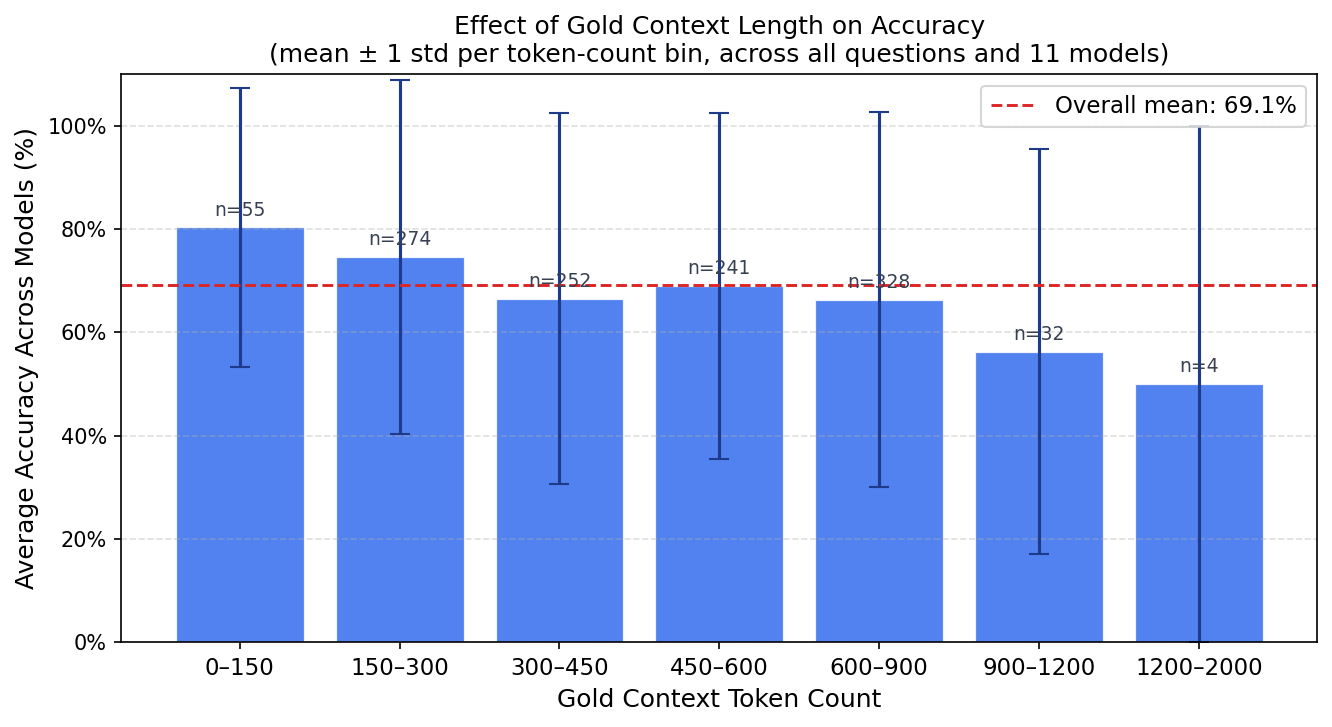
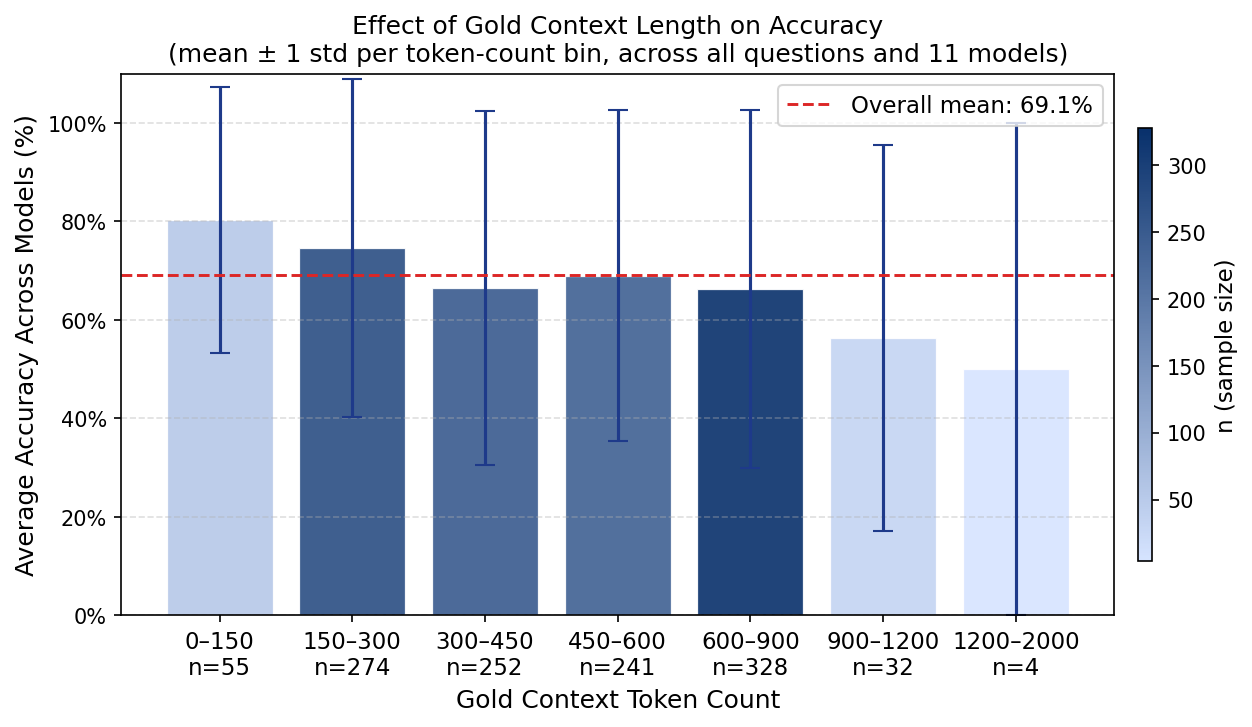
plots updated

diff --git a/src/gold_context_analysis/plot2_improved_token_distribution.py b/src/gold_context_analysis/plot2_improved_token_distribution.py
@@ -2,11 +2,8 @@
 plot2_improved_token_distribution.py
 
 Plot 2: Token length distribution of questions that were answered
-incorrectly in Gold Context but correctly in Iterative RAG (≥1 model),
-compared to the full question distribution.
-
-Shows whether "improved" questions tend to have shorter or longer
-gold contexts than the overall set.
+correctly in Gold Context (≥1 model) vs. questions that were wrong in
+Gold Context but corrected by Iterative RAG.
 
 Run from the src/ directory:
     python gold_context_analysis/plot2_improved_token_distribution.py
@@ -79,15 +76,18 @@ def main() -> None:
     rag_results = load_correctness(RAG_DIR, "raw_response.question")
 
     # Build token count lists
-    all_tokens:      list[int] = []
-    improved_tokens: list[int] = []
+    gc_correct_tokens: list[int] = []   # questions correct in GC (≥1 model)
+    improved_tokens:   list[int] = []
 
     for question, gc_dict in gc_results.items():
         ctx = gold_contexts.get(question)
         if ctx is None:
             continue
         n = len(tokenizer(ctx, add_special_tokens=False)["input_ids"])
-        all_tokens.append(n)
+
+        # Correct in Gold Context: at least one model got it right
+        if any(gc_dict.values()):
+            gc_correct_tokens.append(n)
 
         rag_dict = rag_results.get(question, {})
         common = set(gc_dict) & set(rag_dict)
@@ -95,14 +95,14 @@ def main() -> None:
         if any(not gc_dict[m] and rag_dict[m] for m in common):
             improved_tokens.append(n)
 
-    all_tokens      = np.array(all_tokens)
-    improved_tokens = np.array(improved_tokens)
+    gc_correct_tokens = np.array(gc_correct_tokens)
+    improved_tokens   = np.array(improved_tokens)
 
-    print(f"  All questions:      {len(all_tokens)}")
+    print(f"  Correct in GC:      {len(gc_correct_tokens)}")
     print(f"  Improved questions: {len(improved_tokens)}")
 
     # ── Plot ──────────────────────────────────────────────────────────────────
-    bins = np.arange(0, all_tokens.max() + 30, 30)
+    bins = np.arange(0, gc_correct_tokens.max() + 30, 30)
 
     fig, ax = plt.subplots(figsize=(9, 5))
 
@@ -112,20 +112,20 @@ def main() -> None:
         density=True,
         alpha=0.60, color="#059669",
         label=(
-            f"Wrong in GC → Correct in RAG  "
+            f"Wrong in GC → Correct in Iterative RAG  "
         ),
     )
     ax.hist(
-        all_tokens, bins=bins,
+        gc_correct_tokens, bins=bins,
         density=True,
         histtype="step",          # outline only — always visible on top
         linewidth=2.2,
         color="#374151",
-        label=f"All questions  (n={len(all_tokens)},  median={int(np.median(all_tokens))} tok)",
+        label=f"Correct in GC  (n={len(gc_correct_tokens)},  median={int(np.median(gc_correct_tokens))} tok)",
     )
 
     # Vertical median lines
-    ax.axvline(np.median(all_tokens), color="#374151", linestyle="--",
+    ax.axvline(np.median(gc_correct_tokens), color="#374151", linestyle="--",
                linewidth=1.5, alpha=0.8)
     ax.axvline(np.median(improved_tokens), color="#047857", linestyle="--",
                linewidth=1.5, alpha=0.9)
@@ -133,7 +133,7 @@ def main() -> None:
     ax.set_xlabel("Gold Context Token Count", fontsize=12)
     ax.set_ylabel("Density", fontsize=12)
     ax.set_title(
-        "Token Length Distribution: All Questions vs. Iterative RAG-Improved Questions\n"
+        "Token Length Distribution: Correct in GC vs. Iterative RAG-Improved Questions\n"
         "(questions wrong in Gold Context but correct in Iterative RAG, ≥1 model)",
         fontsize=12,
     )

diff --git a/src/gold_context_analysis/plot1_gc_accuracy_by_token_bin.py b/src/gold_context_analysis/plot1_gc_accuracy_by_token_bin.py
@@ -15,6 +15,7 @@ import json
 from pathlib import Path
 
 import matplotlib.pyplot as plt
+import matplotlib.colors as mcolors
 import matplotlib.ticker as mticker
 import numpy as np
 from transformers import AutoTokenizer
@@ -111,28 +112,28 @@ def main() -> None:
     x = np.arange(len(bin_labels))
     fig, ax = plt.subplots(figsize=(9, 5))
 
+    # Color palette: light blue (near white) → dark blue based on n
+    cmap = mcolors.LinearSegmentedColormap.from_list(
+        "n_blue", ["#D6E4FF", "#08306B"]
+    )
+    norm = mcolors.Normalize(vmin=min(bin_counts), vmax=max(bin_counts))
+    bar_colors = [cmap(norm(n)) for n in bin_counts]
+
     bars = ax.bar(
         x, bin_means,
         yerr=bin_stds,
         capsize=5,
-        color="#2563EB",
-        alpha=0.80,
+        color=bar_colors,
+        alpha=0.90,
         edgecolor="white",
         linewidth=0.6,
         error_kw=dict(ecolor="#1E3A8A", elinewidth=1.5),
     )
 
-    # Annotate bar tops with n
-    for rect, n, mean in zip(bars, bin_counts, bin_means):
-        ax.text(
-            rect.get_x() + rect.get_width() / 2,
-            mean + 1.5,
-            f"n={n}",
-            ha="center", va="bottom", fontsize=9, color="#374151",
-        )
-
+    # X-axis: token bin label + n below it
+    combined_labels = [f"{lbl}\nn={n}" for lbl, n in zip(bin_labels, bin_counts)]
     ax.set_xticks(x)
-    ax.set_xticklabels(bin_labels, fontsize=11)
+    ax.set_xticklabels(combined_labels, fontsize=11)
     ax.set_xlabel("Gold Context Token Count", fontsize=12)
     ax.set_ylabel("Average Accuracy Across Models (%)", fontsize=12)
     ax.set_title(
@@ -146,6 +147,12 @@ def main() -> None:
                linewidth=1.4, label=f"Overall mean: {avg_accuracies.mean():.1f}%")
     ax.legend(fontsize=11)
     ax.grid(axis="y", linestyle="--", alpha=0.4)
+
+    # Colorbar legend for n values
+    sm = plt.cm.ScalarMappable(cmap=cmap, norm=norm)
+    sm.set_array([])
+    cbar = fig.colorbar(sm, ax=ax, pad=0.02, aspect=30, shrink=0.8)
+    cbar.set_label("n (sample size)", fontsize=11)
 
     plt.tight_layout()
     out = PLOT_DIR / "plot1_gc_accuracy_by_token_bin.png"
